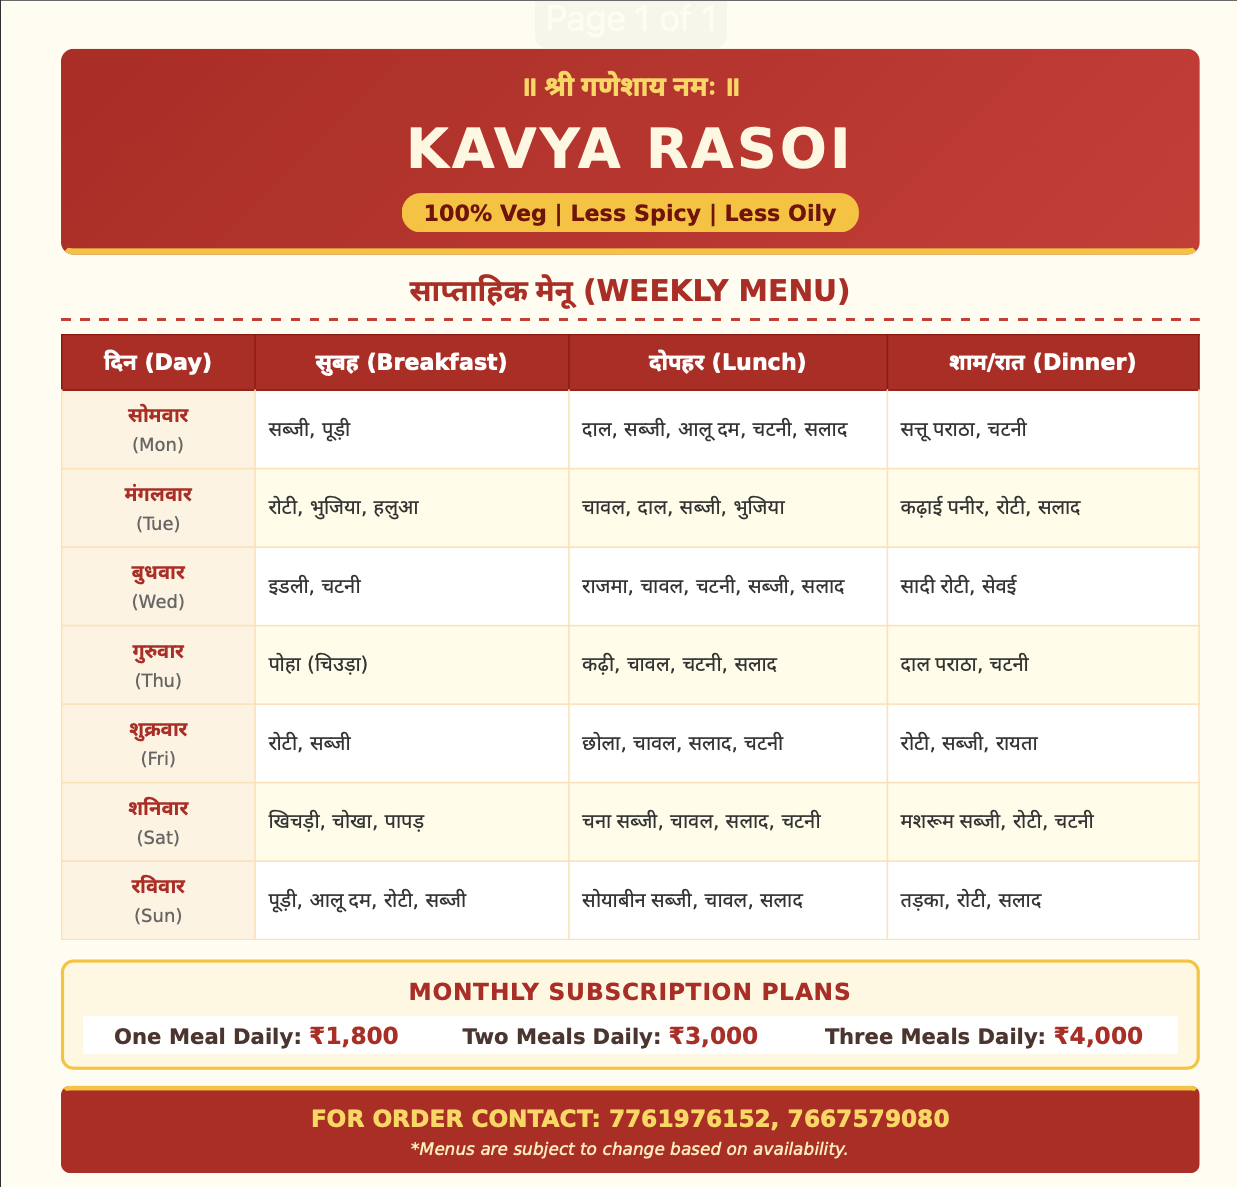
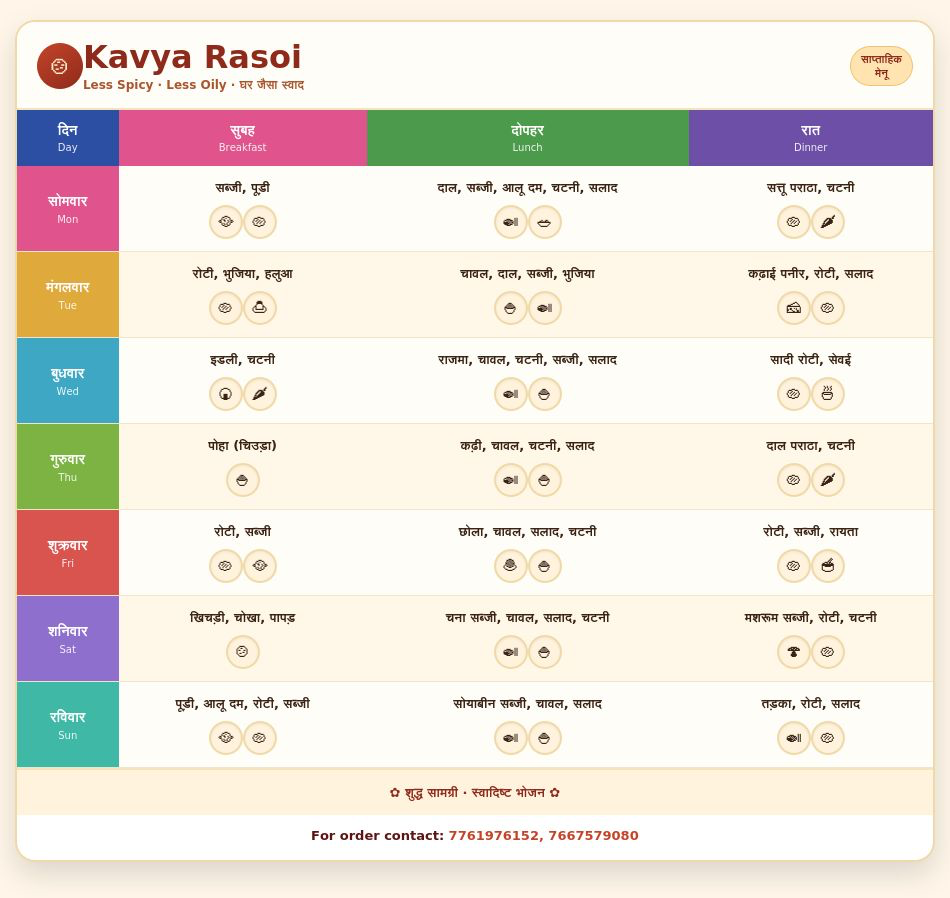
changed menu

diff --git a/index.html b/index.html
@@ -95,7 +95,7 @@
             Enjoy delicious, wholesome daily meals crafted with cleanliness and
             care, delivered straight to you when you need them.
           </p>
-          <p class="note">100% Pure Vegetarian.</p>
+
         </header>
 
         <div class="split-panels">
@@ -289,18 +289,18 @@
 
         <div class="contact-shell">
           <a class="phone-display" href="tel:+917761976152">+91 77619 76152</a>
-          <a class="phone-display" href="tel:+917541899363">+91 75418 99363</a>
+
 
           <div class="contact-actions">
             <a class="btn btn-primary btn-large" href="tel:+917761976152">Call Now</a>
             <a
               class="btn btn-whatsapp btn-large"
-              href="https://wa.me/917541899363?text=Hello%2C%20I%20want%20to%20know%20about%20PG%20%2F%20Tiffin"
+              href="https://wa.me/917761976152?text=Hello%2C%20I%20want%20to%20know%20about%20PG%20%2F%20Tiffin"
               target="_blank"
               rel="noopener noreferrer">WhatsApp Us</a>
           </div>
 
-          <p class="note">WhatsApp: +91 75418 99363 · +91 76675 79080<br>Call: +91 77619 76152 · +91 75418 99363</p>
+          <p class="note">WhatsApp:  +91 76675 79080<br>Call: +91 77619 76152 · +91 76675 79080</p>
 
           <address class="address">
             <strong>Address</strong><br>
@@ -337,7 +337,7 @@
     </a>
     <a
       class="dock-btn dock-wa"
-      href="https://wa.me/917541899363?text=Hello%2C%20I%20want%20to%20know%20about%20PG%20%2F%20Tiffin"
+      href="https://wa.me/917761976152?text=Hello%2C%20I%20want%20to%20know%20about%20PG%20%2F%20Tiffin"
       target="_blank"
       rel="noopener noreferrer">
       <svg viewBox="0 0 24 24" width="20" height="20" fill="currentColor" aria-hidden="true"><path d="M12 2a10 10 0 0 0-8.7 14.9L2 22l5.3-1.4A10 10 0 1 0 12 2zm0 18a8 8 0 0 1-4.1-1.1l-.3-.2-3.1.8.8-3-.2-.3A8 8 0 1 1 12 20zm4.4-5.9c-.2-.1-1.4-.7-1.6-.8s-.4-.1-.5.1-.6.8-.7.9-.3.2-.5.1a6.5 6.5 0 0 1-1.9-1.2 7.2 7.2 0 0 1-1.3-1.6c-.1-.3 0-.4.1-.5l.4-.4.2-.4c.1-.1 0-.3 0-.4s-.5-1.3-.7-1.8-.4-.4-.5-.4h-.5c-.2 0-.4.1-.6.3a2 2 0 0 0-.6 1.5 3.5 3.5 0 0 0 .7 1.9 8 8 0 0 0 3 3 5.5 5.5 0 0 0 3.2 1c.5 0 1-.1 1.3-.2a2.3 2.3 0 0 0 1.5-1.4c.1-.3.1-.5.1-.6s-.2-.2-.4-.3z"/></svg>
